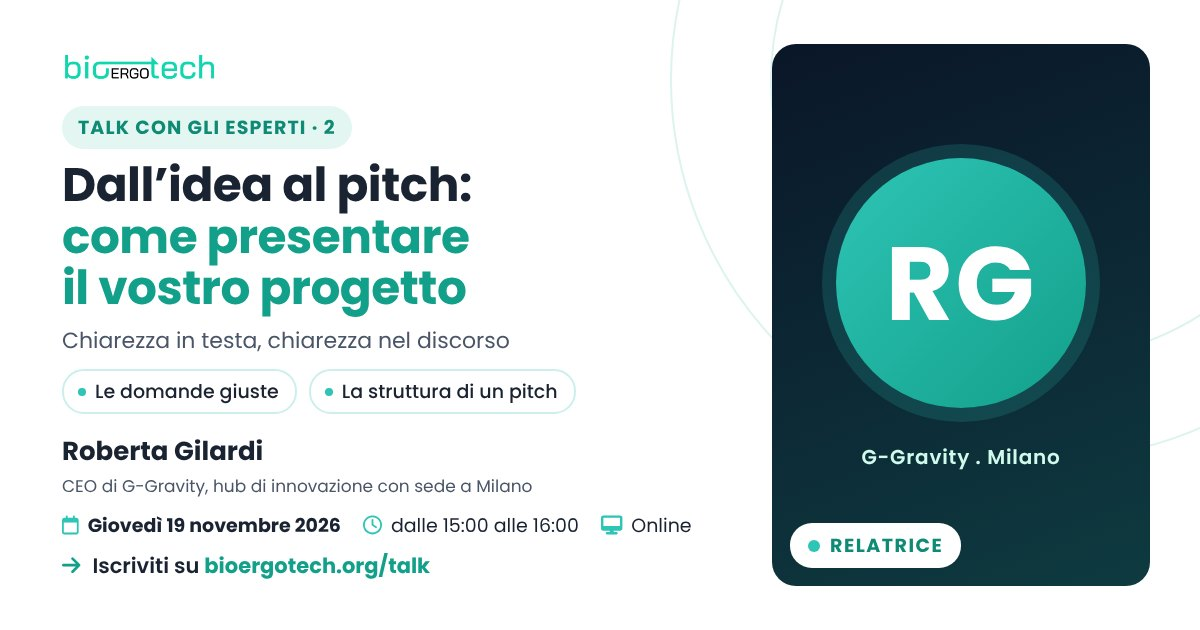
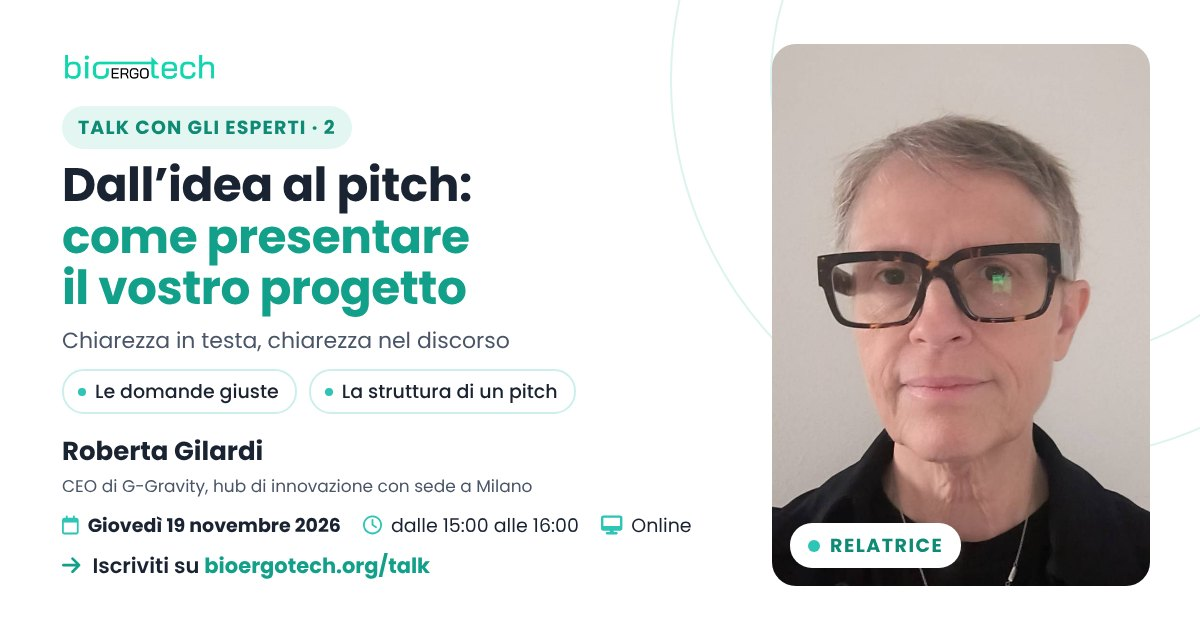
Talk 2: Roberta Gilardi's photo on the page and the preview image
The speaker sent a recent photo. It is cropped by hand to the framing of
the other speakers' portraits (head and shoulders, 1000x1000 webp, 22 KB),
without prep_foto.py, so it keeps its own light background. The Open
Graph image now shows the portrait instead of the monogram. Its path has
not been published yet, so it needs no ?v.

Claude-Session: https://claude.ai/code/session_01GFf5Ufhw8pP69PYCBGd7q5

Changed region(s): [[0.6167, 0.0603, 0.9558, 0.9349]]

diff --git a/app/eventi/vivere-piu-a-lungo/talk/content.ts b/app/eventi/vivere-piu-a-lungo/talk/content.ts
@@ -198,8 +198,9 @@ export const TALKS: Talk[] = [
     relatore: {
       nome: "Roberta Gilardi",
       ruolo: "CEO di G-Gravity, hub di innovazione con sede a Milano",
-      // La foto la manda la relatrice: fino ad allora, il monogramma.
-      foto: null,
+      // La foto l'ha mandata la relatrice il 14 novembre: tagliata come i
+      // ritratti degli altri relatori, con il suo sfondo chiaro.
+      foto: "/assets/images/eventi/talk/roberta-gilardi.webp",
     },
     dataLabel: "Giovedì 19 novembre 2026",
     // Ora italiana, dalle 15 alle 16. L'invito del calendario mostra dalle

diff --git a/app/eventi/vivere-piu-a-lungo/talk/README.md b/app/eventi/vivere-piu-a-lungo/talk/README.md
@@ -13,9 +13,10 @@ sede a Milano: "Dall'idea al pitch: come presentare il vostro progetto",
 giovedi 19 novembre 2026 dalle 15:00 alle 16:00 (l'invito del calendario dice
 17-18 perche e nel fuso di Riyadh). Link della riunione
 `https://meet.google.com/dpz-xbdd-aar`. I temi in pagina sono una prima
-stesura da far rivedere alla relatrice; finche non arriva la foto, la pagina
-mostra il monogramma. L'immagine Open Graph e stata fatta senza `grafica/`,
-nello stile di quella di Memmola. Un talk che non propone progetti ma cose da
+stesura da far rivedere alla relatrice. La foto (inviata dalla relatrice il
+14 novembre) e tagliata a mano come gli altri ritratti, senza `prep_foto.py`:
+lo sfondo e quello originale, chiaro, e non il grigio da studio. L'immagine
+Open Graph e stata fatta senza `grafica/`, nello stile di quella di Memmola. Un talk che non propone progetti ma cose da
 preparare usa `spuntiSezione` per i titoli della sezione degli spunti.
 
 Sotto modulo dell'evento, accanto a `licei/` e `universita/`, con la stessa
